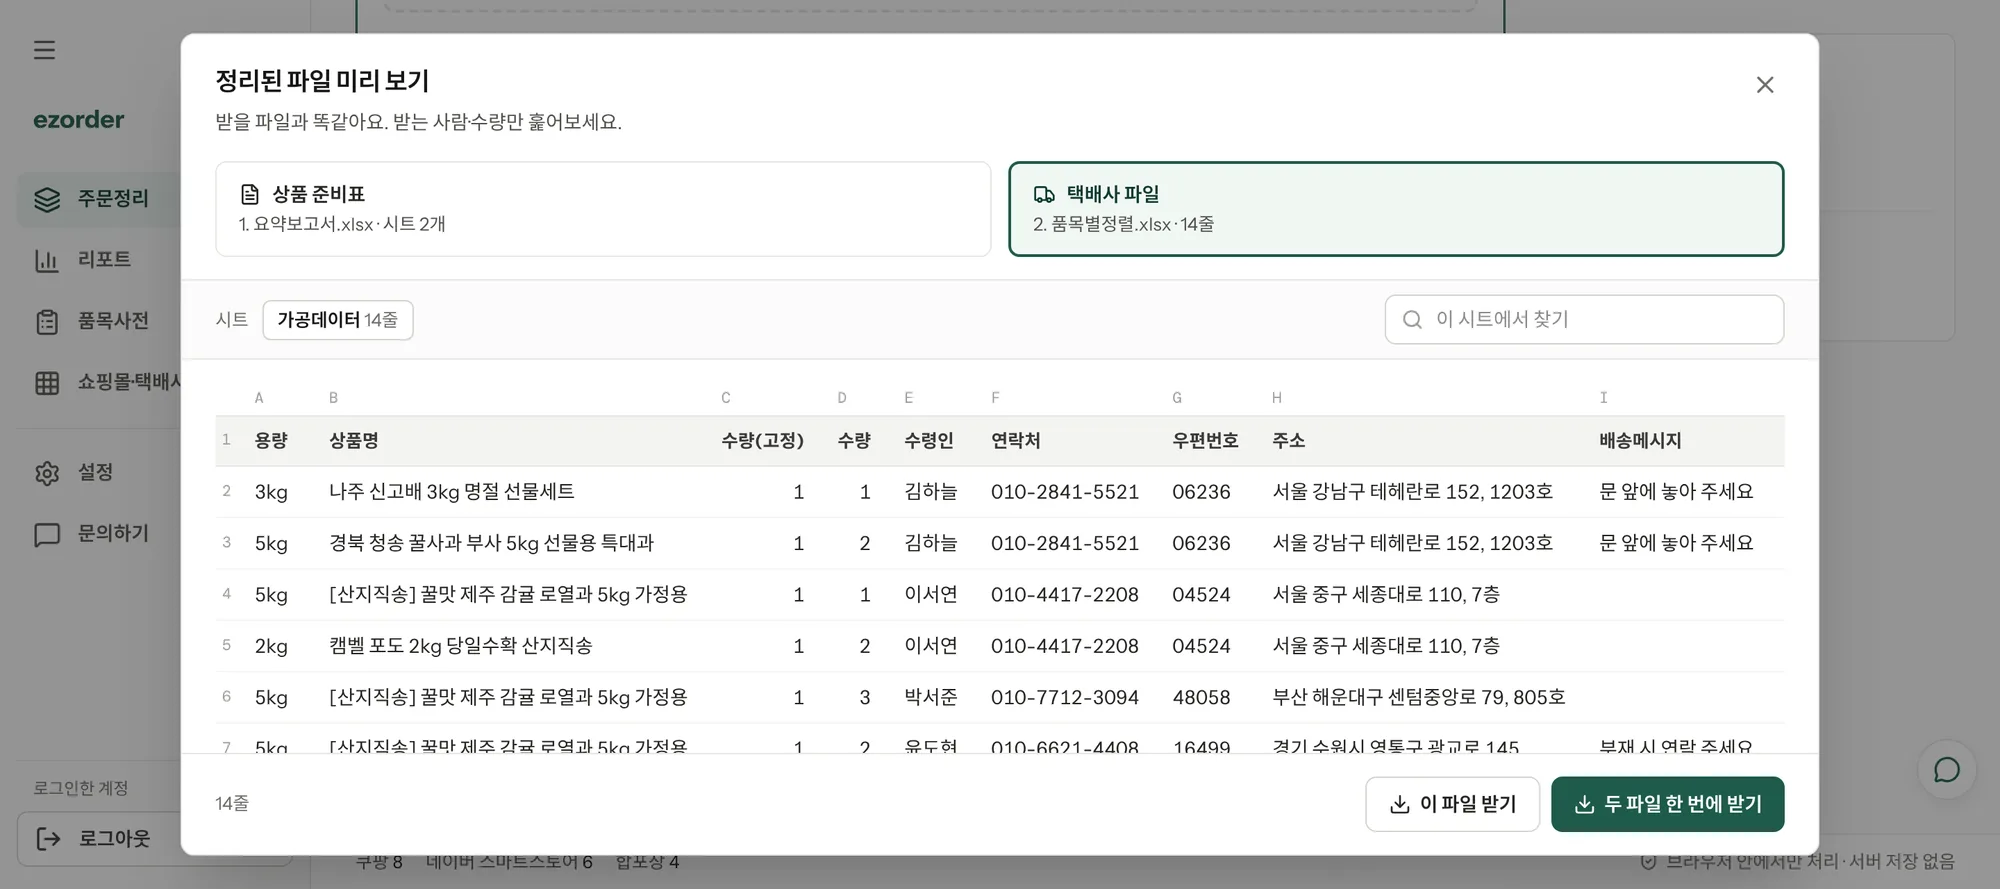
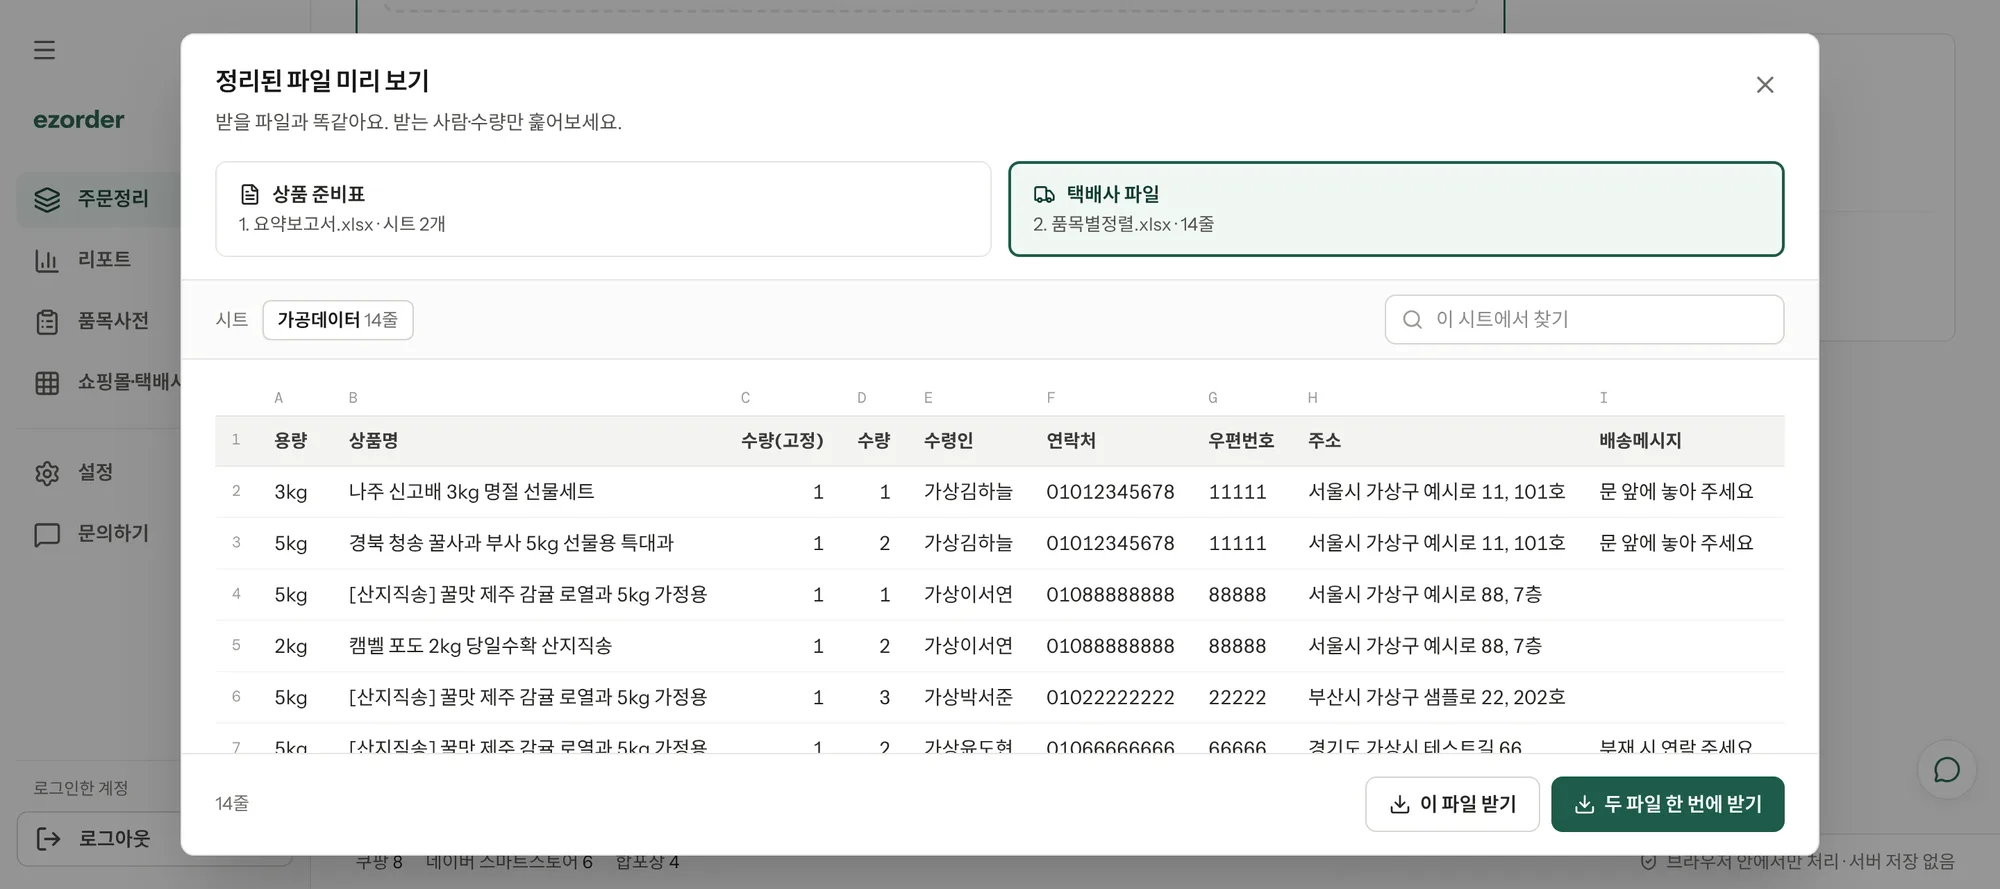
랜딩 기능 섹션: 시안 A 적용, 같은 상품 카드를 실제 품목별 정렬 모양으로, 예시 데이터 가상으로 교체
- 시안 A: 초록 그라데이션 배경을 빼고, 기능 카드마다 앱 화면 조각을 실제 글씨 크기로 보여 줌
- 같은 상품 카드: 앱의 품목별 정렬 파일 모양(용량·상품명·수량·주문자)으로, 같은 상품 묶음에 초록 띠. 아래 줄에서 조금 넓게
- 4단계 그림 8장을 가상 이름·번호·주소·송장 번호로 다시 찍음
- 품목사전 카드 마지막 줄이 카드 아래에서 잘리던 것 정리

Claude-Session: https://claude.ai/code/session_01GyQoHb8BPmExJsQypgD5Ry

diff --git a/src/landing/mount.ts b/src/landing/mount.ts
@@ -168,14 +168,14 @@ const INFO_ICO = '<svg viewBox="0 0 12 12" aria-hidden="true"><circle cx="6" cy=
 
 // 엑셀 미리 보기 모양 표: 열 글자(A, B, …), 행 번호, 회색 머리줄. opt: 좁은 화면에서 숨기는 열
 type Col = { h: string; cls?: string; opt?: boolean };
-const sheet = (cols: Col[], rows: string[][], mark: (r: string[]) => boolean) => {
+const sheet = (cols: Col[], rows: string[][], mark: (r: string[], i: number) => boolean) => {
   const td = (c: Col, v: string) => `<td class="${[c.cls, c.opt && 'is-opt'].filter(Boolean).join(' ')}">${v}</td>`;
   return `<table class="frag__sheet">
     <thead>
       <tr class="frag__letters"><td></td>${cols.map((c, i) => td(c, String.fromCharCode(65 + i))).join('')}</tr>
       <tr class="frag__head"><td>1</td>${cols.map((c) => td(c, c.h)).join('')}</tr>
     </thead>
-    <tbody>${rows.map((r, i) => `<tr${mark(r) ? ' class="is-mark"' : ''}><td>${i + 2}</td>${cols.map((c, j) => td(c, r[j])).join('')}</tr>`).join('')}</tbody>
+    <tbody>${rows.map((r, i) => `<tr${mark(r, i) ? ' class="is-mark"' : ''}><td>${i + 2}</td>${cols.map((c, j) => td(c, r[j])).join('')}</tr>`).join('')}</tbody>
   </table>`;
 };
 const PEOPLE: Record<string, [string]> = {
@@ -189,13 +189,23 @@ const COURIER_ROWS = [
   ['가상 앰플 30ml', '1', '가상최유진'], ['가상 토너 120ml', '1', '가상최유진'], ['가상 선크림 SPF50', '3', '가상정하늘'],
   ['가상 세럼 50ml', '1', '가상정하늘'], ['가상 앰플 30ml', '1', '가상정하늘'],
 ].map(([p, q, n]) => [p, q, n, PEOPLE[n][0]]);
+// 앱의 '품목별 정렬' 파일 그대로 (가상 데이터로 찍은 결과): 같은 상품 주문이 위아래로 붙어 나옵니다
 const SORTED_ROWS = [
-  ['가상 선크림 SPF50', '1', '가상김도윤'], ['가상 선크림 SPF50', '1', '가상이서연'], ['가상 선크림 SPF50', '1', '가상박지호'],
-  ['가상 세럼 50ml', '1', '가상김도윤'], ['가상 세럼 50ml', '1', '가상이서연'], ['가상 세럼 50ml', '2', '가상박지호'],
-  ['가상 세럼 50ml', '1', '가상정하늘'],
-  ['가상 앰플 30ml', '1', '가상최유진'], ['가상 앰플 30ml', '1', '가상정하늘'],
-  ['가상 토너 120ml', '2', '가상김도윤'], ['가상 토너 120ml', '1', '가상박지호'], ['가상 토너 120ml', '1', '가상최유진'],
+  ['3kg', '나주 신고배 3kg 명절 선물세트', '1', '가상김도윤', '쿠팡'],
+  ['5kg', '경북 청송 꿀사과 부사 5kg 선물용 특대과', '1', '가상김도윤', '쿠팡'],
+  ['2kg', '캠벨 포도 2kg 당일수확 산지직송', '1', '가상김도윤', '네이버 스마트스토어'],
+  ['5kg', '산지직송 꿀맛 제주 감귤 로열과 5kg 가정용', '1', '가상이서연', '네이버 스마트스토어'],
+  ['5kg', '경북 청송 꿀사과 부사 5kg 선물용 특대과', '2', '가상이서연', '네이버 스마트스토어'],
+  ['5kg', '산지직송 꿀맛 제주 감귤 로열과 5kg 가정용', '1', '가상문하린', '쿠팡'],
+  ['5kg', '산지직송 꿀맛 제주 감귤 로열과 5kg 가정용', '2', '가상박지호', '쿠팡'],
+  ['5kg', '산지직송 꿀맛 제주 감귤 로열과 5kg 가정용', '1', '가상윤도현', '네이버 스마트스토어'],
+  ['5kg', '상주 단감 5kg 아삭한 부유 단감', '2', '가상최유진', '쿠팡'],
+  ['3kg', '나주 신고배 3kg 명절 선물세트', '1', '가상강태오', '네이버 스마트스토어'],
+  ['5kg', '경북 청송 꿀사과 부사 5kg 선물용 특대과', '2', '가상서지훈', '쿠팡'],
+  ['5kg', '경북 청송 꿀사과 부사 5kg 선물용 특대과', '1', '가상오세린', '쿠팡'],
+  ['5kg', '경북 청송 꿀사과 부사 5kg 선물용 특대과', '1', '가상조은비', '쿠팡'],
 ];
+const SORTED_MARK = new Set([5, 6, 7, 10, 11, 12]);
 const FILES: [string, string, number, string][] = [
   ['DeliveryList_가상쿠팡_주문.xlsx', '5.4 KB', 6, '쿠팡'],
   ['스마트스토어_주문_1120.xlsx', '28.1 KB', 8, '네이버 스마트스토어'],
@@ -221,7 +231,6 @@ const DICT: [string, string][] = [
   ['그린 웰빙 업소용 국산 반달 슬라이스 단무지', '반달단무지'],
   ['국내제조 비린맛 없는 절단 돌산 간장 꽃게장', '게장'],
   ['제주 한라봉 3kg 선물용 고당도 산지직송', '한라봉 3kg'],
-  ['유기농 현미 10kg 햅쌀 당일도정', '현미 10kg'],
 ];
 
 const FRAGS: Record<string, string> = {
@@ -231,8 +240,8 @@ const FRAGS: Record<string, string> = {
     [{ h: '상품명' }, { h: '수량', cls: 'num' }, { h: '수령인', cls: 'name' }, { h: '연락처', opt: true }],
     COURIER_ROWS, (r) => r[2] === '가상김도윤'),
   sort: sheet(
-    [{ h: '상품명', cls: 'name' }, { h: '수량', cls: 'num' }, { h: '수령인', cls: 'opt-narrow' }],
-    SORTED_ROWS, (r) => r[0] === '가상 선크림 SPF50'),
+    [{ h: '용량', cls: 'opt-wide' }, { h: '상품명' }, { h: '수량', cls: 'num' }, { h: '주문자', cls: 'opt-narrow' }, { h: '쇼핑몰/플랫폼', cls: 'opt-wide' }],
+    SORTED_ROWS, (_r, i) => SORTED_MARK.has(i)),
   check: `<div class="frag__alert"><span class="frag__alert-ico">${WARN_ICO}</span><span><b>잘못 배송될 수 있는 주문 ${ODD.length}건</b><small>이름·전화번호·주소가 이상한 주문이에요.</small></span></div>
     <ul class="frag__odd">${ODD.map(([n, line, why]) => `<li><span><b>${n}</b><small>${line}</small></span><em class="frag__flag">${INFO_ICO}${why}</em></li>`).join('')}</ul>`,
   dict: `<table class="frag__dict"><thead><tr><td>상품명에 들어 있는 말</td><td>바꿀 이름</td></tr></thead>
@@ -241,7 +250,7 @@ const FRAGS: Record<string, string> = {
 const FEATS: [key: string, title: string, line: string, label: string][] = [
   ['detect', '쇼핑몰 양식 자동 구분', '양식이 달라도 파일만 올리면 돼요', '올린 주문 파일 여섯 개에 쿠팡 양식, 네이버 스마트스토어 양식, 토스 양식 같은 쇼핑몰 양식 표시가 붙은 목록'],
   ['pack', '같은 사람 주문은 한데 모아', '합포장할 주문이 바로 보여요', '택배사 파일 미리 보기: 가상김도윤의 주문 세 줄이 위아래로 붙어 있는 표'],
-  ['sort', '같은 상품끼리 묶어서 정리해요', '상품 이름순이라 같은 상품이 한데 모여요', '상품 준비표 미리 보기: 가상 선크림 SPF50 주문 세 줄이 한데 모인 표'],
+  ['sort', '같은 상품끼리 묶어서 정리해요', '상품 이름순이라 같은 상품이 한데 모여요', '품목별 정렬 파일 미리 보기: 제주 감귤 주문 세 줄, 청송 꿀사과 주문 세 줄이 각각 위아래로 붙어 있는 표'],
   ['check', '이상한 주문은 먼저 알려 줘요', '이름·전화번호·주소 점검', '잘못 배송될 수 있는 주문 5건: 주소가 너무 짧은 주문, 전화번호가 7자리인 주문 같은 문제마다 붉은 표시가 붙은 목록'],
   ['dict', '긴 상품명은 짧게', '한 번 정하면 계속 써요', '품목사전: 경북 청송 꿀사과 부사 5kg 선물용 특대과를 사과 5kg으로 바꾸는 것처럼 긴 상품명마다 짧은 이름이 적힌 목록'],
 ];

diff --git a/public/landing.css b/public/landing.css
@@ -122,6 +122,8 @@
 .feat-row { display: grid; gap: 24px; }
 .feat-row--2 { grid-template-columns: repeat(2, minmax(0, 1fr)); }
 .feat-row--3 { grid-template-columns: repeat(3, minmax(0, 1fr)); }
+/* 같은 상품 카드는 긴 상품명이 들어가서 조금 넓게 */
+.feat-row--3 { grid-template-columns: minmax(0, 1.5fr) minmax(0, 1fr) minmax(0, 1fr); }
 .feat { --pad: 32px; position: relative; display: flex; flex-direction: column; gap: 24px; min-height: 0; overflow: hidden;
   padding: var(--pad) 0 0 var(--pad); border-radius: 24px; background: var(--p-surface); }
 .feat__text { padding-right: var(--pad); display: grid; gap: 6px; }
@@ -214,5 +216,6 @@
 /* 창 폭에 맞추기(컨테이너 쿼리, 파일 맨 끝에 두어 위 규칙을 이김): 좁으면 덜 중요한 열·칸을 빼서 창 끝에서 글이 잘리지 않게 */
 @container (max-width: 460px) { .frag__sheet .is-opt { display: none; } }
 @container (max-width: 300px) { .frag__sheet .opt-narrow { display: none; } }
+@container (max-width: 700px) { .frag__sheet .opt-wide { display: none; } }
 @container (max-width: 480px) { .frag__select { display: none; } }
 @container (max-width: 340px) { .frag__odd li { flex-direction: column; gap: 6px; } .frag__alert small { display: none; } }
